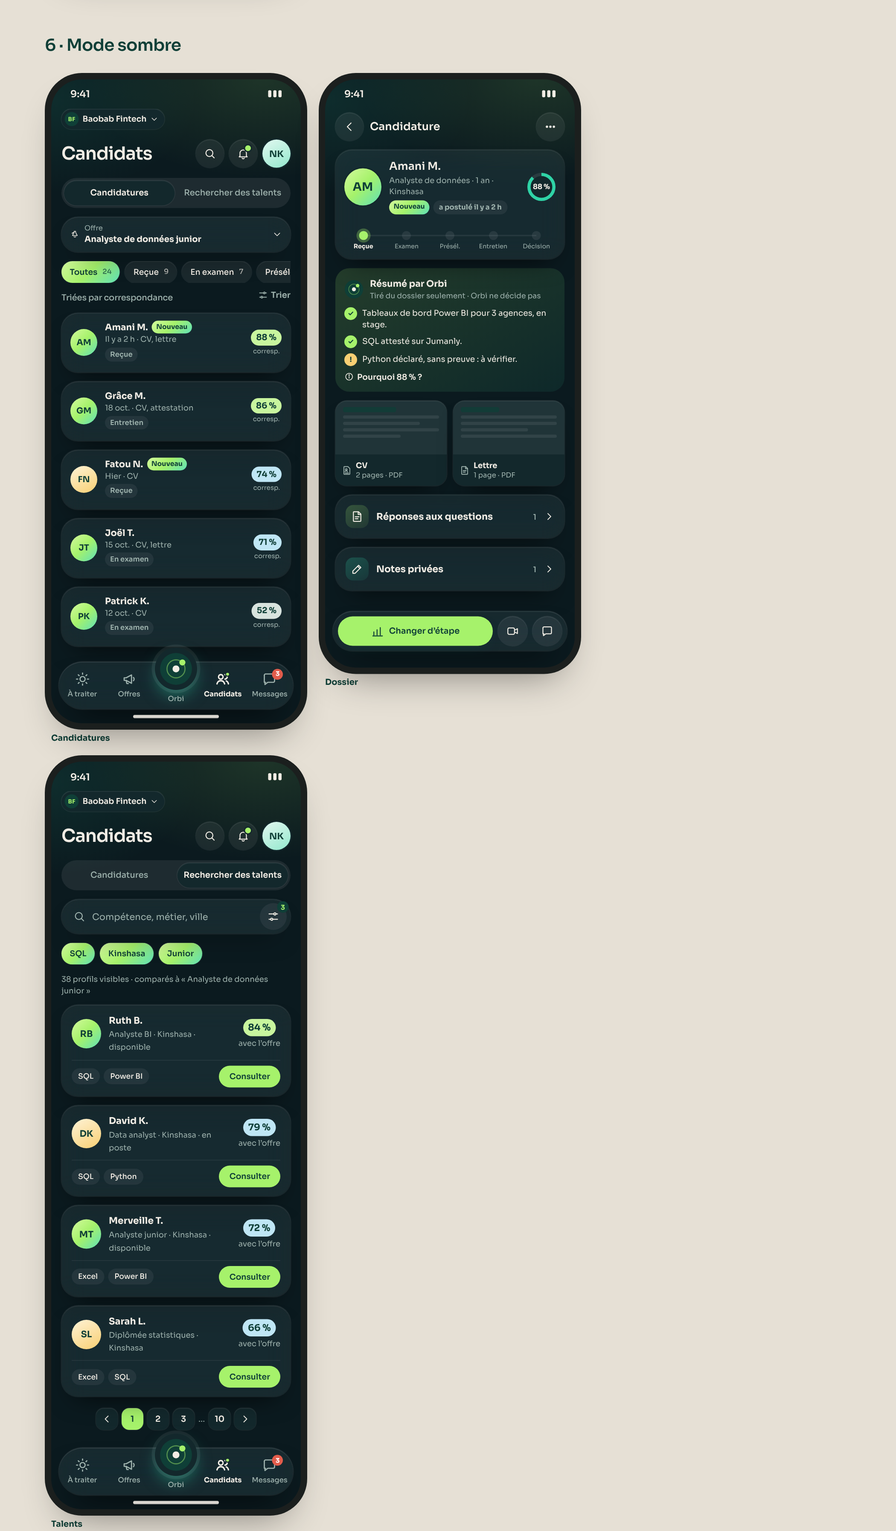
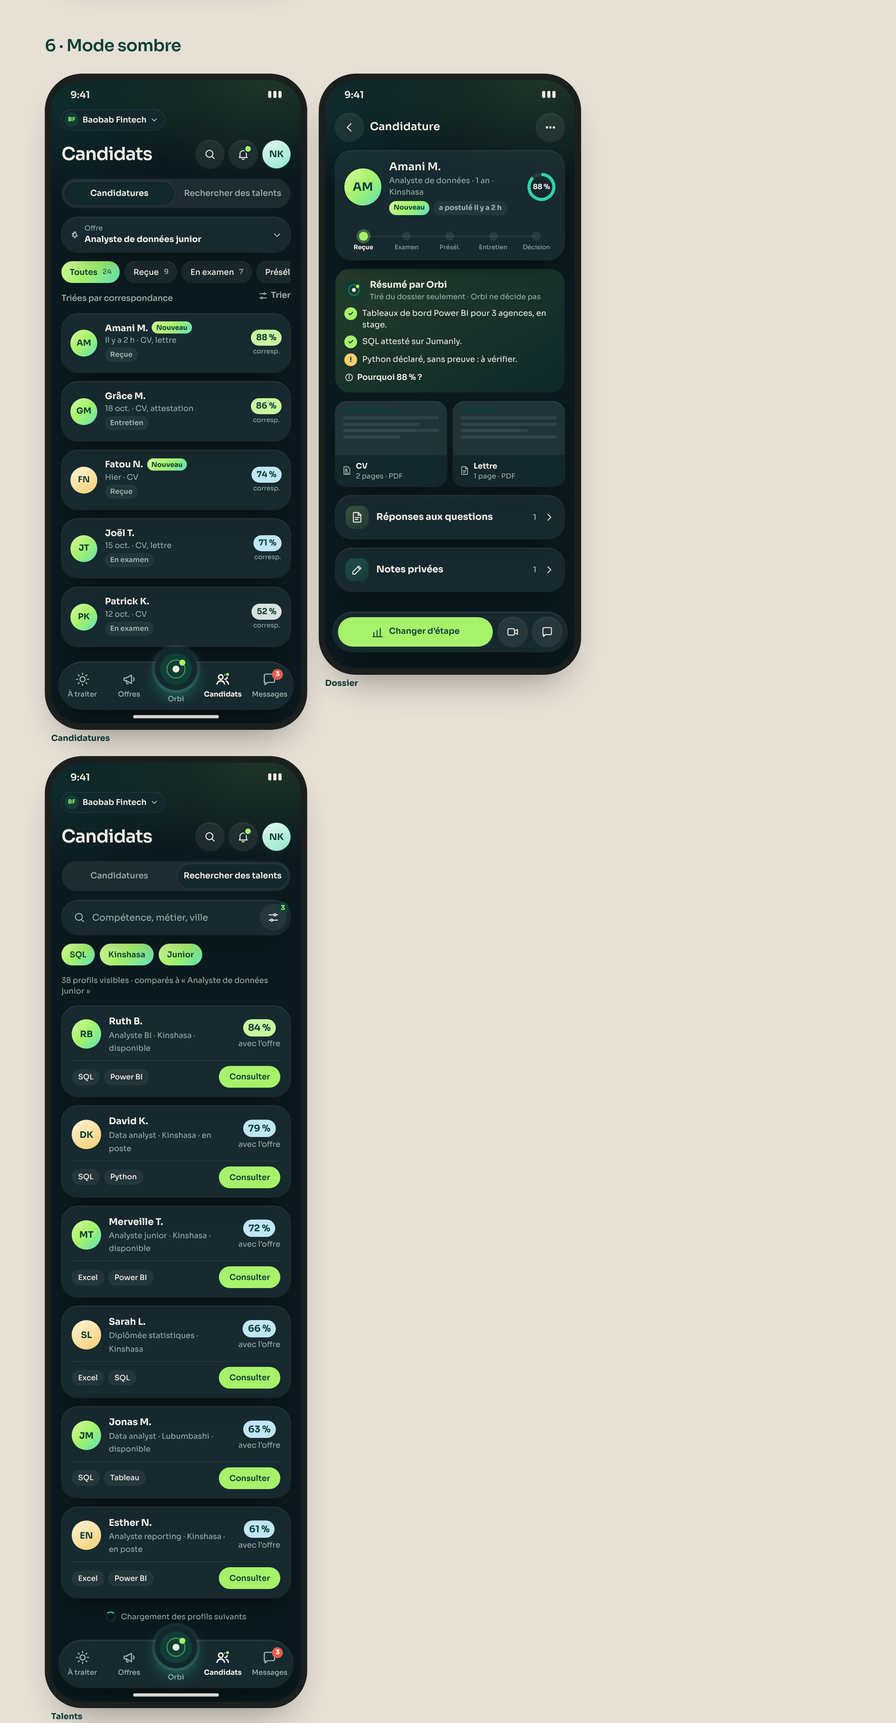
Refonte recruteur lot 2 : talents en liste verticale continue
Claude-Session: https://claude.ai/code/session_017gTCcYajdQCGouwHCBY2gp

Changed region(s): [[0.031, 0.0, 0.65, 0.9989]]

diff --git a/docs/refonte-mobile/recruteur-2/refonte-mobile-recruteur-2.html b/docs/refonte-mobile/recruteur-2/refonte-mobile-recruteur-2.html
@@ -1105,6 +1105,8 @@ a{color:inherit;text-decoration:none}
 .pagin a{min-width:34px;height:34px;border-radius:12px;display:grid;place-items:center;font-size:13px;font-weight:600;background:var(--plein);box-shadow:var(--verre)}
 .pagin a.on{background:#0F3F37;color:#fff}.sombre .pagin a.on{background:#A6F26B;color:#0F3F37}
 .pagin span{color:var(--texte2);font-size:13px}
+.suite{display:flex;align-items:center;justify-content:center;gap:8px;font-size:12px;color:var(--texte2);padding:6px 0 4px}
+.suite .spin{width:16px;height:16px;border-radius:50%;border:2px solid var(--trait);border-top-color:#2FD3A6}
 .vu-chip{display:inline-flex;align-items:center;gap:4px;font-size:10.5px;font-weight:700;padding:3px 8px;border-radius:999px;background:var(--zone);color:var(--texte2)}
 .vu-chip .ic{width:12px;height:12px}
 .xp-h{display:flex;align-items:center;gap:8px;margin:2px 0 -2px}
@@ -1298,7 +1300,9 @@ a{color:inherit;text-decoration:none}
 <div class="verre tl"><div class="h"><span class="av a">DK</span><div class="t"><b>David K.</b><span>Data analyst · Kinshasa · en poste</span></div><span class="sc-p"><b class="m">79 %</b>avec l’offre</span></div><div class="b2"><div class="m"><span class="tag">SQL</span><span class="tag">Python</span></div><a class="bt">Consulter</a></div></div>
 <div class="verre tl"><div class="h"><span class="av ">MT</span><div class="t"><b>Merveille T.</b><span>Analyste junior · Kinshasa · disponible</span></div><span class="sc-p"><b class="m">72 %</b>avec l’offre</span></div><div class="b2"><div class="m"><span class="tag">Excel</span><span class="tag">Power BI</span></div><a class="bt">Consulter</a></div></div>
 <div class="verre tl"><div class="h"><span class="av a">SL</span><div class="t"><b>Sarah L.</b><span>Diplômée statistiques · Kinshasa</span></div><span class="sc-p"><b class="m">66 %</b>avec l’offre</span></div><div class="b2"><div class="m"><span class="tag">Excel</span><span class="tag">SQL</span></div><a class="bt">Consulter</a></div></div>
-<div class="pagin"><a><svg class="ic xs" viewBox="0 0 24 24" fill="none" stroke="currentColor" stroke-width="1.8" stroke-linecap="round" stroke-linejoin="round" aria-hidden="true"><path d="M15 5 8 12l7 7"/></svg></a><a class="on">1</a><a>2</a><a>3</a><span>…</span><a>10</a><a><svg class="ic xs" viewBox="0 0 24 24" fill="none" stroke="currentColor" stroke-width="1.8" stroke-linecap="round" stroke-linejoin="round" aria-hidden="true"><path d="m9 5 7 7-7 7"/></svg></a></div></div><div class="nav-z"><nav class="nav"><a class=""><span class="badge"><svg class="ic " viewBox="0 0 24 24" fill="none" stroke="currentColor" stroke-width="1.8" stroke-linecap="round" stroke-linejoin="round" aria-hidden="true"><circle cx="12" cy="12" r="4"/><path d="M12 2.5v2M12 19.5v2M2.5 12h2M19.5 12h2M5.3 5.3l1.4 1.4M17.3 17.3l1.4 1.4M5.3 18.7l1.4-1.4M17.3 6.7l1.4-1.4"/></svg></span>À traiter</a><a class=""><span class="badge"><svg class="ic " viewBox="0 0 24 24" fill="none" stroke="currentColor" stroke-width="1.8" stroke-linecap="round" stroke-linejoin="round" aria-hidden="true"><path d="M4 10v4h3l8.5 4.5v-13L7 10z"/><path d="M18.5 9.5a3.5 3.5 0 0 1 0 5"/><path d="M7 14l1.2 5h2.3"/></svg></span>Offres</a><a class="centre"><span class="rond"><svg class="orbi-m repos " width="52" height="52" viewBox="0 0 48 48" aria-hidden="true"><circle cx="24" cy="24" r="23" fill="#0F3F37"/><circle class="orb" cx="24" cy="24" r="13" fill="none" stroke="#A6F26B" stroke-opacity=".45" stroke-width="1.6"/><circle cx="24" cy="24" r="5" fill="#F2EDE5"/><g class="sat"><circle cx="33.2" cy="14.8" r="4.4" fill="#A6F26B"/></g></svg></span><span>Orbi</span></a><a class="on"><span class="badge"><svg class="ic  on" viewBox="0 0 24 24" fill="none" stroke="currentColor" stroke-width="2.2" stroke-linecap="round" stroke-linejoin="round" aria-hidden="true"><circle cx="9" cy="8.5" r="3.5"/><path d="M3 19.5c.9-3.4 3.3-5 6-5s5.1 1.6 6 5"/><path d="M15.5 5a3.5 3.5 0 0 1 0 7"/><path d="M17.5 14.8c1.7.6 2.9 2.2 3.4 4.7"/><circle class="pt" cx="19.6" cy="4.4" r="3.1"/></svg></span>Candidats</a><a class=""><span class="badge"><svg class="ic " viewBox="0 0 24 24" fill="none" stroke="currentColor" stroke-width="1.8" stroke-linecap="round" stroke-linejoin="round" aria-hidden="true"><path d="M4 6a2 2 0 0 1 2-2h12a2 2 0 0 1 2 2v9a2 2 0 0 1-2 2H9.5L5 20.5V17H6"/><path d="M4 6v11"/></svg><b>3</b></span>Messages</a></nav><span class="home"></span></div></div><figcaption><b>Rechercher</b><br><span>4 talents par page, Consulter.</span></figcaption></figure><figure><div class="phone "><div class="statut"><span>9:41</span><span><i></i><i></i><i></i></span></div><div class="contenu"><div class="org-l"><span class="lg-e sap" style="width:22px;height:22px;font-size:9px">BF</span>Baobab Fintech<svg class="ic xs" viewBox="0 0 24 24" fill="none" stroke="currentColor" stroke-width="1.8" stroke-linecap="round" stroke-linejoin="round" aria-hidden="true"><path d="m9 5 7 7-7 7"/></svg></div><div class="tete"><h1>Candidats</h1><a class="bi " aria-label="Rechercher"><svg class="ic s" viewBox="0 0 24 24" fill="none" stroke="currentColor" stroke-width="1.8" stroke-linecap="round" stroke-linejoin="round" aria-hidden="true"><circle cx="11" cy="11" r="6.5"/><path d="m20 20-4.4-4.4"/></svg></a><a class="bi " aria-label="Notifications"><svg class="ic s" viewBox="0 0 24 24" fill="none" stroke="currentColor" stroke-width="1.8" stroke-linecap="round" stroke-linejoin="round" aria-hidden="true"><path d="M6 16.5V11a6 6 0 0 1 12 0v5.5l1.5 1.5h-15z"/><path d="M10 20.5a2.2 2.2 0 0 0 4 0"/></svg><span class=pastille></span></a><span class="av m">NK</span></div><div class="seg"><span>Candidatures</span><span class="on">Rechercher des talents</span></div></div><div class="voile"></div><div class="sheet"><div class="poignee"></div><h3>Filtrer les talents</h3>
+<div class="verre tl"><div class="h"><span class="av ">JM</span><div class="t"><b>Jonas M.</b><span>Data analyst · Lubumbashi · disponible</span></div><span class="sc-p"><b class="m">63 %</b>avec l’offre</span></div><div class="b2"><div class="m"><span class="tag">SQL</span><span class="tag">Tableau</span></div><a class="bt">Consulter</a></div></div>
+<div class="verre tl"><div class="h"><span class="av a">EN</span><div class="t"><b>Esther N.</b><span>Analyste reporting · Kinshasa · en poste</span></div><span class="sc-p"><b class="m">61 %</b>avec l’offre</span></div><div class="b2"><div class="m"><span class="tag">Excel</span><span class="tag">Power BI</span></div><a class="bt">Consulter</a></div></div>
+<div class="suite"><span class="spin"></span>Chargement des profils suivants</div></div><div class="nav-z"><nav class="nav"><a class=""><span class="badge"><svg class="ic " viewBox="0 0 24 24" fill="none" stroke="currentColor" stroke-width="1.8" stroke-linecap="round" stroke-linejoin="round" aria-hidden="true"><circle cx="12" cy="12" r="4"/><path d="M12 2.5v2M12 19.5v2M2.5 12h2M19.5 12h2M5.3 5.3l1.4 1.4M17.3 17.3l1.4 1.4M5.3 18.7l1.4-1.4M17.3 6.7l1.4-1.4"/></svg></span>À traiter</a><a class=""><span class="badge"><svg class="ic " viewBox="0 0 24 24" fill="none" stroke="currentColor" stroke-width="1.8" stroke-linecap="round" stroke-linejoin="round" aria-hidden="true"><path d="M4 10v4h3l8.5 4.5v-13L7 10z"/><path d="M18.5 9.5a3.5 3.5 0 0 1 0 5"/><path d="M7 14l1.2 5h2.3"/></svg></span>Offres</a><a class="centre"><span class="rond"><svg class="orbi-m repos " width="52" height="52" viewBox="0 0 48 48" aria-hidden="true"><circle cx="24" cy="24" r="23" fill="#0F3F37"/><circle class="orb" cx="24" cy="24" r="13" fill="none" stroke="#A6F26B" stroke-opacity=".45" stroke-width="1.6"/><circle cx="24" cy="24" r="5" fill="#F2EDE5"/><g class="sat"><circle cx="33.2" cy="14.8" r="4.4" fill="#A6F26B"/></g></svg></span><span>Orbi</span></a><a class="on"><span class="badge"><svg class="ic  on" viewBox="0 0 24 24" fill="none" stroke="currentColor" stroke-width="2.2" stroke-linecap="round" stroke-linejoin="round" aria-hidden="true"><circle cx="9" cy="8.5" r="3.5"/><path d="M3 19.5c.9-3.4 3.3-5 6-5s5.1 1.6 6 5"/><path d="M15.5 5a3.5 3.5 0 0 1 0 7"/><path d="M17.5 14.8c1.7.6 2.9 2.2 3.4 4.7"/><circle class="pt" cx="19.6" cy="4.4" r="3.1"/></svg></span>Candidats</a><a class=""><span class="badge"><svg class="ic " viewBox="0 0 24 24" fill="none" stroke="currentColor" stroke-width="1.8" stroke-linecap="round" stroke-linejoin="round" aria-hidden="true"><path d="M4 6a2 2 0 0 1 2-2h12a2 2 0 0 1 2 2v9a2 2 0 0 1-2 2H9.5L5 20.5V17H6"/><path d="M4 6v11"/></svg><b>3</b></span>Messages</a></nav><span class="home"></span></div></div><figcaption><b>Rechercher</b><br><span>Liste verticale continue, Consulter.</span></figcaption></figure><figure><div class="phone "><div class="statut"><span>9:41</span><span><i></i><i></i><i></i></span></div><div class="contenu"><div class="org-l"><span class="lg-e sap" style="width:22px;height:22px;font-size:9px">BF</span>Baobab Fintech<svg class="ic xs" viewBox="0 0 24 24" fill="none" stroke="currentColor" stroke-width="1.8" stroke-linecap="round" stroke-linejoin="round" aria-hidden="true"><path d="m9 5 7 7-7 7"/></svg></div><div class="tete"><h1>Candidats</h1><a class="bi " aria-label="Rechercher"><svg class="ic s" viewBox="0 0 24 24" fill="none" stroke="currentColor" stroke-width="1.8" stroke-linecap="round" stroke-linejoin="round" aria-hidden="true"><circle cx="11" cy="11" r="6.5"/><path d="m20 20-4.4-4.4"/></svg></a><a class="bi " aria-label="Notifications"><svg class="ic s" viewBox="0 0 24 24" fill="none" stroke="currentColor" stroke-width="1.8" stroke-linecap="round" stroke-linejoin="round" aria-hidden="true"><path d="M6 16.5V11a6 6 0 0 1 12 0v5.5l1.5 1.5h-15z"/><path d="M10 20.5a2.2 2.2 0 0 0 4 0"/></svg><span class=pastille></span></a><span class="av m">NK</span></div><div class="seg"><span>Candidatures</span><span class="on">Rechercher des talents</span></div></div><div class="voile"></div><div class="sheet"><div class="poignee"></div><h3>Filtrer les talents</h3>
 <div class="champ"><label>Compétences</label><div class="puces"><span class="puce on">SQL</span><span class="puce">Power BI</span><span class="puce">Python</span><span class="puce"><svg class="ic xs" viewBox="0 0 24 24" fill="none" stroke="currentColor" stroke-width="1.8" stroke-linecap="round" stroke-linejoin="round" aria-hidden="true"><path d="M12 5v14M5 12h14"/></svg></span></div></div>
 <div class="champ"><label>Lieu</label><div class="puces"><span class="puce on"><svg class="fl" viewBox="0 0 30 20" aria-hidden="true"><defs><clipPath id="r"><rect width="30" height="20" rx="3"/></clipPath></defs><g clip-path="url(#r)"><rect width="30" height="20" fill="#007FFF"/><path d="M0 17 27 0h3v3L3 20H0z" fill="#F7D618"/><path d="M0 18.6 28.6 0H30v1.4L1.4 20H0z" fill="#CE1021"/><polygon fill="#F7D618" points="6.00,2.40 6.85,4.84 9.42,4.89 7.37,6.44 8.12,8.91 6.00,7.44 3.88,8.91 4.63,6.44 2.58,4.89 5.15,4.84"/></g><rect width="30" height="20" rx="3" fill="none" stroke="rgba(0,0,0,.12)"/></svg> Kinshasa</span><span class="puce">À distance</span></div></div>
 <div class="champ"><label>Expérience</label><div class="puces"><span class="puce">Sans</span><span class="puce on">Junior</span><span class="puce">Confirmé</span></div></div>
@@ -1367,4 +1371,6 @@ a{color:inherit;text-decoration:none}
 <div class="verre tl"><div class="h"><span class="av a">DK</span><div class="t"><b>David K.</b><span>Data analyst · Kinshasa · en poste</span></div><span class="sc-p"><b class="m">79 %</b>avec l’offre</span></div><div class="b2"><div class="m"><span class="tag">SQL</span><span class="tag">Python</span></div><a class="bt">Consulter</a></div></div>
 <div class="verre tl"><div class="h"><span class="av ">MT</span><div class="t"><b>Merveille T.</b><span>Analyste junior · Kinshasa · disponible</span></div><span class="sc-p"><b class="m">72 %</b>avec l’offre</span></div><div class="b2"><div class="m"><span class="tag">Excel</span><span class="tag">Power BI</span></div><a class="bt">Consulter</a></div></div>
 <div class="verre tl"><div class="h"><span class="av a">SL</span><div class="t"><b>Sarah L.</b><span>Diplômée statistiques · Kinshasa</span></div><span class="sc-p"><b class="m">66 %</b>avec l’offre</span></div><div class="b2"><div class="m"><span class="tag">Excel</span><span class="tag">SQL</span></div><a class="bt">Consulter</a></div></div>
-<div class="pagin"><a><svg class="ic xs" viewBox="0 0 24 24" fill="none" stroke="currentColor" stroke-width="1.8" stroke-linecap="round" stroke-linejoin="round" aria-hidden="true"><path d="M15 5 8 12l7 7"/></svg></a><a class="on">1</a><a>2</a><a>3</a><span>…</span><a>10</a><a><svg class="ic xs" viewBox="0 0 24 24" fill="none" stroke="currentColor" stroke-width="1.8" stroke-linecap="round" stroke-linejoin="round" aria-hidden="true"><path d="m9 5 7 7-7 7"/></svg></a></div></div><div class="nav-z"><nav class="nav"><a class=""><span class="badge"><svg class="ic " viewBox="0 0 24 24" fill="none" stroke="currentColor" stroke-width="1.8" stroke-linecap="round" stroke-linejoin="round" aria-hidden="true"><circle cx="12" cy="12" r="4"/><path d="M12 2.5v2M12 19.5v2M2.5 12h2M19.5 12h2M5.3 5.3l1.4 1.4M17.3 17.3l1.4 1.4M5.3 18.7l1.4-1.4M17.3 6.7l1.4-1.4"/></svg></span>À traiter</a><a class=""><span class="badge"><svg class="ic " viewBox="0 0 24 24" fill="none" stroke="currentColor" stroke-width="1.8" stroke-linecap="round" stroke-linejoin="round" aria-hidden="true"><path d="M4 10v4h3l8.5 4.5v-13L7 10z"/><path d="M18.5 9.5a3.5 3.5 0 0 1 0 5"/><path d="M7 14l1.2 5h2.3"/></svg></span>Offres</a><a class="centre"><span class="rond"><svg class="orbi-m repos " width="52" height="52" viewBox="0 0 48 48" aria-hidden="true"><circle cx="24" cy="24" r="23" fill="#0F3F37"/><circle class="orb" cx="24" cy="24" r="13" fill="none" stroke="#A6F26B" stroke-opacity=".45" stroke-width="1.6"/><circle cx="24" cy="24" r="5" fill="#F2EDE5"/><g class="sat"><circle cx="33.2" cy="14.8" r="4.4" fill="#A6F26B"/></g></svg></span><span>Orbi</span></a><a class="on"><span class="badge"><svg class="ic  on" viewBox="0 0 24 24" fill="none" stroke="currentColor" stroke-width="2.2" stroke-linecap="round" stroke-linejoin="round" aria-hidden="true"><circle cx="9" cy="8.5" r="3.5"/><path d="M3 19.5c.9-3.4 3.3-5 6-5s5.1 1.6 6 5"/><path d="M15.5 5a3.5 3.5 0 0 1 0 7"/><path d="M17.5 14.8c1.7.6 2.9 2.2 3.4 4.7"/><circle class="pt" cx="19.6" cy="4.4" r="3.1"/></svg></span>Candidats</a><a class=""><span class="badge"><svg class="ic " viewBox="0 0 24 24" fill="none" stroke="currentColor" stroke-width="1.8" stroke-linecap="round" stroke-linejoin="round" aria-hidden="true"><path d="M4 6a2 2 0 0 1 2-2h12a2 2 0 0 1 2 2v9a2 2 0 0 1-2 2H9.5L5 20.5V17H6"/><path d="M4 6v11"/></svg><b>3</b></span>Messages</a></nav><span class="home"></span></div></div><figcaption><b>Talents</b><br><span></span></figcaption></figure></div></div></section><p class="fin">Jumanly · Learn. Grow. Connect.</p></body></html>
+<div class="verre tl"><div class="h"><span class="av ">JM</span><div class="t"><b>Jonas M.</b><span>Data analyst · Lubumbashi · disponible</span></div><span class="sc-p"><b class="m">63 %</b>avec l’offre</span></div><div class="b2"><div class="m"><span class="tag">SQL</span><span class="tag">Tableau</span></div><a class="bt">Consulter</a></div></div>
+<div class="verre tl"><div class="h"><span class="av a">EN</span><div class="t"><b>Esther N.</b><span>Analyste reporting · Kinshasa · en poste</span></div><span class="sc-p"><b class="m">61 %</b>avec l’offre</span></div><div class="b2"><div class="m"><span class="tag">Excel</span><span class="tag">Power BI</span></div><a class="bt">Consulter</a></div></div>
+<div class="suite"><span class="spin"></span>Chargement des profils suivants</div></div><div class="nav-z"><nav class="nav"><a class=""><span class="badge"><svg class="ic " viewBox="0 0 24 24" fill="none" stroke="currentColor" stroke-width="1.8" stroke-linecap="round" stroke-linejoin="round" aria-hidden="true"><circle cx="12" cy="12" r="4"/><path d="M12 2.5v2M12 19.5v2M2.5 12h2M19.5 12h2M5.3 5.3l1.4 1.4M17.3 17.3l1.4 1.4M5.3 18.7l1.4-1.4M17.3 6.7l1.4-1.4"/></svg></span>À traiter</a><a class=""><span class="badge"><svg class="ic " viewBox="0 0 24 24" fill="none" stroke="currentColor" stroke-width="1.8" stroke-linecap="round" stroke-linejoin="round" aria-hidden="true"><path d="M4 10v4h3l8.5 4.5v-13L7 10z"/><path d="M18.5 9.5a3.5 3.5 0 0 1 0 5"/><path d="M7 14l1.2 5h2.3"/></svg></span>Offres</a><a class="centre"><span class="rond"><svg class="orbi-m repos " width="52" height="52" viewBox="0 0 48 48" aria-hidden="true"><circle cx="24" cy="24" r="23" fill="#0F3F37"/><circle class="orb" cx="24" cy="24" r="13" fill="none" stroke="#A6F26B" stroke-opacity=".45" stroke-width="1.6"/><circle cx="24" cy="24" r="5" fill="#F2EDE5"/><g class="sat"><circle cx="33.2" cy="14.8" r="4.4" fill="#A6F26B"/></g></svg></span><span>Orbi</span></a><a class="on"><span class="badge"><svg class="ic  on" viewBox="0 0 24 24" fill="none" stroke="currentColor" stroke-width="2.2" stroke-linecap="round" stroke-linejoin="round" aria-hidden="true"><circle cx="9" cy="8.5" r="3.5"/><path d="M3 19.5c.9-3.4 3.3-5 6-5s5.1 1.6 6 5"/><path d="M15.5 5a3.5 3.5 0 0 1 0 7"/><path d="M17.5 14.8c1.7.6 2.9 2.2 3.4 4.7"/><circle class="pt" cx="19.6" cy="4.4" r="3.1"/></svg></span>Candidats</a><a class=""><span class="badge"><svg class="ic " viewBox="0 0 24 24" fill="none" stroke="currentColor" stroke-width="1.8" stroke-linecap="round" stroke-linejoin="round" aria-hidden="true"><path d="M4 6a2 2 0 0 1 2-2h12a2 2 0 0 1 2 2v9a2 2 0 0 1-2 2H9.5L5 20.5V17H6"/><path d="M4 6v11"/></svg><b>3</b></span>Messages</a></nav><span class="home"></span></div></div><figcaption><b>Talents</b><br><span></span></figcaption></figure></div></div></section><p class="fin">Jumanly · Learn. Grow. Connect.</p></body></html>

diff --git a/docs/refonte-mobile/maquette/source/r2plus.py b/docs/refonte-mobile/maquette/source/r2plus.py
@@ -395,7 +395,7 @@ ORB_LOCK = phone(f'''{tete_f("Candidature", droite="plus-options")}
 <a class="pq">{ic("pourquoi","xs")}Pourquoi 74 % ? Toujours inclus</a></div>
 <div class="doc-p"><div class="d"><div class="pg"><i class="h"></i><i></i><i style="width:80%"></i><i></i></div><div class="t">{ic("cv","xs")}<div><b>CV</b>1 page · PDF</div></div></div><div class="d" style="display:grid;place-items:center;color:var(--texte2);font-size:11.5px;text-align:center;padding:10px">Pas de lettre<br>Facultative</div></div>''', avec_nav=False, cls='long', bas=BARRE_A)
 
-# ---------- v2.2 : talents 4 par page avec « Consulter », parcours en deux blocs ----------
+# ---------- v2.2 : talents en liste verticale continue avec « Consulter », parcours en deux blocs ----------
 CSSR += """
 .tl .b2{display:flex;align-items:center;gap:6px;padding-top:8px;border-top:1px solid var(--trait)}
 .tl .b2 .m{flex:1}
@@ -406,6 +406,8 @@ CSSR += """
 .pagin a{min-width:34px;height:34px;border-radius:12px;display:grid;place-items:center;font-size:13px;font-weight:600;background:var(--plein);box-shadow:var(--verre)}
 .pagin a.on{background:#0F3F37;color:#fff}.sombre .pagin a.on{background:#A6F26B;color:#0F3F37}
 .pagin span{color:var(--texte2);font-size:13px}
+.suite{display:flex;align-items:center;justify-content:center;gap:8px;font-size:12px;color:var(--texte2);padding:6px 0 4px}
+.suite .spin{width:16px;height:16px;border-radius:50%;border:2px solid var(--trait);border-top-color:#2FD3A6}
 .vu-chip{display:inline-flex;align-items:center;gap:4px;font-size:10.5px;font-weight:700;padding:3px 8px;border-radius:999px;background:var(--zone);color:var(--texte2)}
 .vu-chip .ic{width:12px;height:12px}
 .xp-h{display:flex;align-items:center;gap:8px;margin:2px 0 -2px}
@@ -426,7 +428,9 @@ TAL = phone(f'''{tete_r("Candidats")}
 {tl("DK","a","David K.","Data analyst · Kinshasa · en poste",["SQL","Python"],79,"m")}
 {tl("MT","","Merveille T.","Analyste junior · Kinshasa · disponible",["Excel","Power BI"],72,"m")}
 {tl("SL","a","Sarah L.","Diplômée statistiques · Kinshasa",["Excel","SQL"],66,"m")}
-<div class="pagin"><a>{ic("retour","xs")}</a><a class="on">1</a><a>2</a><a>3</a><span>…</span><a>10</a><a>{ic("suivant","xs")}</a></div>''', 'candidats', 'long')
+{tl("JM","","Jonas M.","Data analyst · Lubumbashi · disponible",["SQL","Tableau"],63,"m")}
+{tl("EN","a","Esther N.","Analyste reporting · Kinshasa · en poste",["Excel","Power BI"],61,"m")}
+<div class="suite"><span class="spin"></span>Chargement des profils suivants</div>''', 'candidats', 'long')
 
 PRJ_VZ1 = '<svg class="vz" viewBox="0 0 120 60"><rect x="6" y="34" width="14" height="22" rx="3" fill="#0F3F37" opacity=".35"/><rect x="26" y="22" width="14" height="34" rx="3" fill="#0F3F37" opacity=".55"/><rect x="46" y="28" width="14" height="28" rx="3" fill="#0F3F37" opacity=".45"/><rect x="66" y="10" width="14" height="46" rx="3" fill="#0F3F37"/><path d="M90 46 L100 30 L108 36 L116 14" fill="none" stroke="#0F3F37" stroke-width="3" stroke-linecap="round" stroke-linejoin="round"/></svg>'
 PRJ_VZ2 = '<svg class="vz" viewBox="0 0 120 60"><rect x="8" y="6" width="104" height="48" rx="6" fill="#fff" opacity=".7"/><g fill="#0F3F37"><rect x="14" y="12" width="92" height="6" rx="2" opacity=".85"/><rect x="14" y="23" width="40" height="4" rx="2" opacity=".35"/><rect x="60" y="23" width="46" height="4" rx="2" opacity=".35"/><rect x="14" y="32" width="40" height="4" rx="2" opacity=".35"/><rect x="60" y="32" width="46" height="4" rx="2" opacity=".35"/><rect x="14" y="41" width="40" height="4" rx="2" opacity=".35"/><rect x="60" y="41" width="30" height="4" rx="2" opacity=".35"/></g><circle cx="100" cy="44" r="8" fill="#2FD3A6"/><path d="M96 44 l3 3 l5 -6" stroke="#fff" stroke-width="2" fill="none" stroke-linecap="round"/></svg>'

diff --git a/docs/refonte-mobile/maquette/source/recruteur2.py b/docs/refonte-mobile/maquette/source/recruteur2.py
@@ -299,7 +299,7 @@ ECR = [
  ('q4','4 · Entretiens','Proposer jusqu’à 3 créneaux, voir l’invitation comme le candidat, suivre les réponses, préparer, évaluer.',
   [ecrans((PROG,'Proposer un entretien','Mode, durée, calendrier, disponibilités lues par Orbi.'),(PROG2,'Choisir les heures','Journée de l’équipe, créneaux, suggestion d’Orbi.'),(INV_AP,'Aperçu de l’invitation','Ce que reçoit le candidat.'),(AGENDA,'Entretiens','Semaine, statuts en couleur, préparation.'),(PREP_R,'Préparer','Questions liées à l’offre.'),(EVAL,'Évaluation','Grille de l’offre, avis, suite.'))]),
  ('q5','5 · Rechercher des talents','Seuls les profils rendus visibles. Chaque consultation est enregistrée. Le talent décide de répondre.',
-  [ecrans((TAL,'Rechercher','4 talents par page, Consulter.'),(TAL_F,'Filtres','Aucun critère personnel.'),(TPROF,'Profil d’un talent','Analyse Orbi, preuves, projets, expérience et formation.'),(CONTACT,'Proposer l’offre','Message personnalisé par Orbi, annonce jointe, quota.'),(VIVIERS,'Viviers','Talents gardés pour plus tard.'))]),
+  [ecrans((TAL,'Rechercher','Liste verticale continue, Consulter.'),(TAL_F,'Filtres','Aucun critère personnel.'),(TPROF,'Profil d’un talent','Analyse Orbi, preuves, projets, expérience et formation.'),(CONTACT,'Proposer l’offre','Message personnalisé par Orbi, annonce jointe, quota.'),(VIVIERS,'Viviers','Talents gardés pour plus tard.'))]),
  ('q6','6 · Mode sombre','',
   [ecrans((sombre(CANDS),'Candidatures',''),(sombre(DOS),'Dossier',''),(sombre(TAL),'Talents',''))]),
 ]

diff --git a/docs/refonte-mobile/BRIEF-RECRUTEUR-CLAUDE-CODE.md b/docs/refonte-mobile/BRIEF-RECRUTEUR-CLAUDE-CODE.md
@@ -85,4 +85,4 @@ Chaque dossier contient la planche HTML, une capture par section (`*.png`) ; les
 - `pnpm lint`, `pnpm typecheck`, `pnpm test`, `pnpm test:db`, `pnpm build`, `pnpm messages:check` passent ; e2e des parcours A à E de l'audit.
 - Tests : isolation par `organizationId` sur chaque requête Hire ; une offre en pause ne compte pas dans le quota ; aucune action Orbi sans accord ; consigne cachée dans un CV ignorée.
 - Tous les textes dans `textes/textes-application.md` → `pnpm messages`.
-- `docs/journal.md` mis à jour ; tout écart au brief noté dans `docs/decisions/`. Liste paginée, **4 talents par page**, bouton « Consulter » sur chaque carte. Profil : parcours en deux blocs, « Expérience professionnelle » puis « Formation » (diplômes et formations, attestations Jumanly marquées) ; la consultation journalisée s'affiche en petite pastille sous le nom.
+- `docs/journal.md` mis à jour ; tout écart au brief noté dans `docs/decisions/`. Liste **verticale continue** (défilement de haut en bas, profils suivants chargés automatiquement, pas de pagination), bouton « Consulter » sur chaque carte. Profil : parcours en deux blocs, « Expérience professionnelle » puis « Formation » (diplômes et formations, attestations Jumanly marquées) ; la consultation journalisée s'affiche en petite pastille sous le nom.
